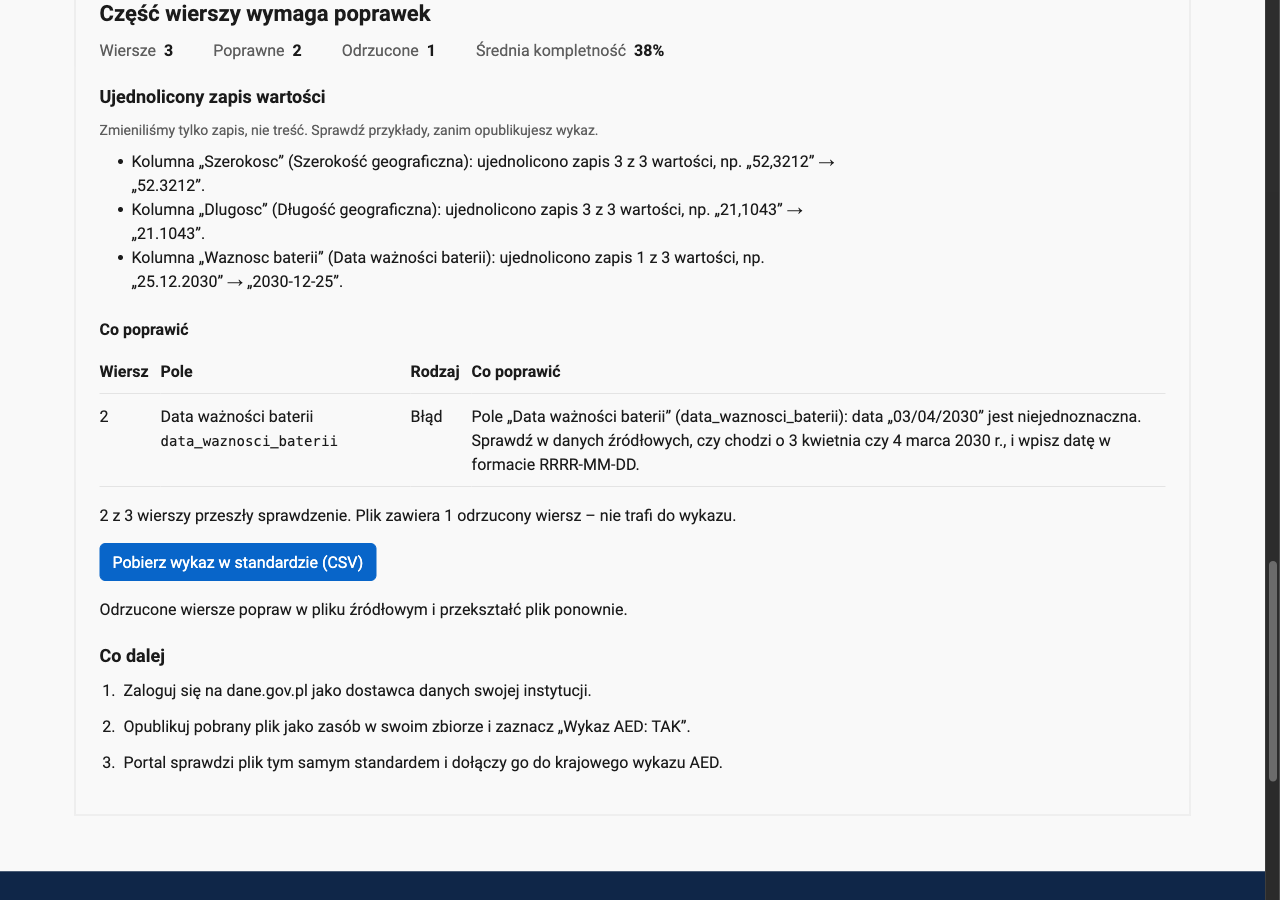
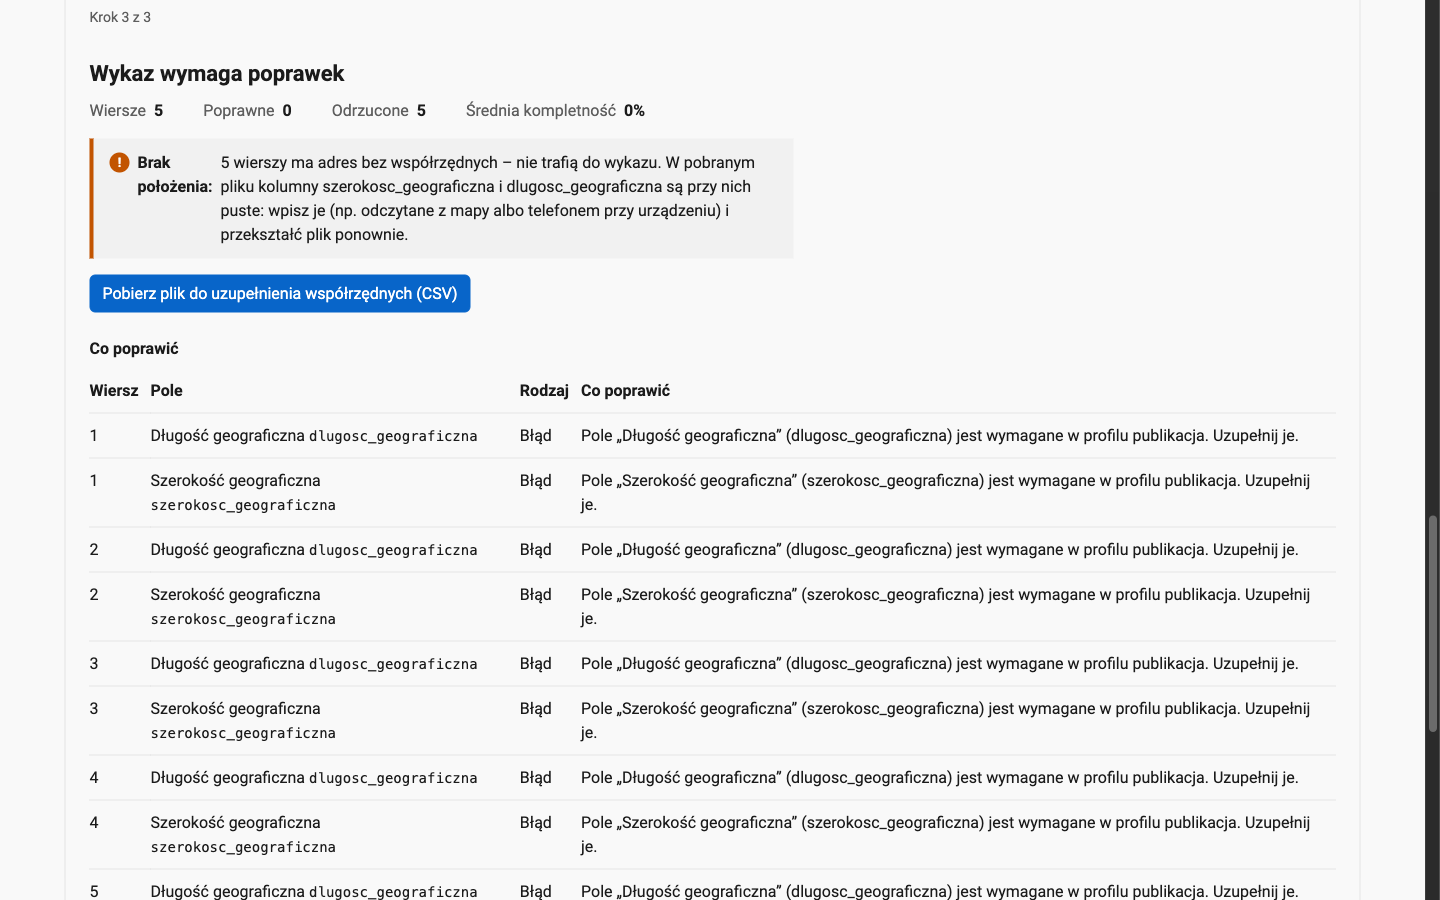
fix(ui): duplicate comparison readable on phones, clearer verdicts; converter download when no row has a position

diff --git a/frontend/src/app/pages/aed/aed-converter.component.html b/frontend/src/app/pages/aed/aed-converter.component.html
@@ -14,12 +14,12 @@
   <p class="aed-step">Krok 1 z 3</p>
   <h2 class="aed-h2" id="aed-conv-step1">Wgraj swój plik</h2>
   <div class="aed-field">
-    <label class="aed-field__label" for="aed-conv-plik">Plik z defibrylatorami – dowolny format z danymi</label>
+    <label class="aed-field__label" for="aed-conv-plik">Plik z defibrylatorami</label>
     <p class="aed-field__hint" id="aed-conv-plik-hint">
       Przyjmowane formaty: CSV, XLSX, ODS, JSON i GeoJSON (także z usług ArcGIS), KML i KMZ (np. Google Moje Mapy),
       GPX, GML, tabela na stronie HTML albo w dokumencie DOCX. Format rozpoznajemy po treści. Położenie może być w
       dwóch kolumnach, w jednej („52.2297, 21.0122”), w stopniach i minutach albo w układzie PUWG 1992 / 2000. Dowolny
-      układ kolumn, najwyżej 5 MB.
+      układ kolumn, najwyżej 5 MB. PDF oraz stare pliki XLS i DOC trzeba najpierw zapisać jako CSV albo XLSX.
     </p>
     <input
       class="form-control"
@@ -123,7 +123,7 @@
                 </select>
                 @if (column.powod) {
                   <p class="aed-field__hint" [id]="'aed-conv-why-' + i">
-                    Propozycja: {{ targetTitle(column.pole) }} ({{ column.powod }})
+                    Propozycja: {{ targetTitle(column.pole) }} – {{ column.powod }}
                   </p>
                 }
                 @if (repeated().includes(mapping()[column.kolumna])) {
@@ -216,8 +216,16 @@
         {{ result.raport.poza_wykazem_krajowym }}.
       </p>
     }
-    @if (result.raport.bez_wspolrzednych_komunikat) {
-      <p class="aed-message aed-message--warn"><strong>Brak położenia:</strong> {{ result.raport.bez_wspolrzednych_komunikat }}</p>
+    @if (noPosition()) {
+      <p class="aed-message aed-message--warn"><strong>Brak położenia:</strong> {{ noPosition() }}</p>
+      @if (!result.raport.poprawne) {
+        <!-- Nothing passed, but the file is still the way forward: it has the rows, only the positions are missing. -->
+        <p>
+          <a class="btn btn-primary" [href]="downloadHref()" [download]="result.nazwa_pliku"
+            >Pobierz plik do uzupełnienia współrzędnych (CSV)</a
+          >
+        </p>
+      }
     }
     @if (result.raport.ukryte_komunikat) {
       <p class="aed-message aed-message--warn"><strong>Uwaga:</strong> {{ result.raport.ukryte_komunikat }}</p>
@@ -294,7 +302,7 @@
         <li>Opublikuj pobrany plik jako zasób w swoim zbiorze i zaznacz „Wykaz AED: TAK”.</li>
         <li>Portal sprawdzi plik tym samym standardem i dołączy go do krajowego wykazu AED.</li>
       </ol>
-    } @else {
+    } @else if (!result.raport.bez_wspolrzednych) {
       <p class="aed-message">
         Żaden wiersz nie spełnia standardu. Sprawdź przypisanie kolumn (zwłaszcza współrzędnych i nazwy miejsca) albo
         uzupełnij wartości wspólne.

diff --git a/frontend/src/app/pages/aed/aed-ministry.component.ts b/frontend/src/app/pages/aed/aed-ministry.component.ts
@@ -62,15 +62,21 @@ export class AedMinistryComponent implements OnInit {
   protected readonly comparison = computed(() => {
     const pair = this.pair();
     if (!pair) return [];
-    return AED_FIELDS.map((field) => {
-      const a = aedLabel(field, pair.rekord_a[field.name]);
-      const b = aedLabel(field, pair.rekord_b[field.name]);
-      return { title: field.title, a, b, same: a === b };
-    }).filter((row) => row.a || row.b);
+    // The ids always differ and are already in the caption, so they are not a row.
+    return AED_FIELDS.filter((field) => field.name !== 'id_aed')
+      .map((field) => {
+        const a = aedLabel(field, pair.rekord_a[field.name]);
+        const b = aedLabel(field, pair.rekord_b[field.name]);
+        const verdict = a === b ? 'to samo' : !b ? 'tylko w A' : !a ? 'tylko w B' : 'różne wartości';
+        return { title: field.title, a, b, same: a === b, verdict };
+      })
+      .filter((row) => row.a || row.b);
   });
   /** By default only the fields in which the two records differ; the toggle shows every filled field. */
   protected readonly showAllFields = signal(false);
   protected readonly differing = computed(() => this.comparison().filter((row) => !row.same));
+  /** Fields filled in both records with different values: the real conflicts, unlike a value missing on one side. */
+  protected readonly conflicting = computed(() => this.differing().filter((row) => row.a && row.b).length);
   protected readonly shownRows = computed(() => (this.showAllFields() ? this.comparison() : this.differing()));
 
   protected readonly messages = signal<AedMessage[]>([]);

diff --git a/frontend/src/app/pages/aed/aed.scss b/frontend/src/app/pages/aed/aed.scss
@@ -1952,3 +1952,57 @@ html:has(.aed--app) {
     display: block;
   }
 }
+
+// Duplicate comparison on a narrow screen (tester round, 22.11): below 640 px the four-column table squeezed
+// values into one-letter lines. Each field becomes a block: its name, then A, B and the verdict, each labelled.
+@media (max-width: 640px) {
+  .aed .aed-compare,
+  .aed .aed-compare tbody,
+  .aed .aed-compare tr,
+  .aed .aed-compare th[scope='row'],
+  .aed .aed-compare td {
+    display: block;
+    width: 100%;
+  }
+
+  .aed .aed-compare thead {
+    position: absolute;
+    width: 1px;
+    height: 1px;
+    overflow: hidden;
+    clip: rect(0 0 0 0);
+  }
+
+  .aed .aed-compare caption,
+  .aed .aed-conv-map caption {
+    display: block;
+    text-align: left;
+    overflow-wrap: anywhere;
+  }
+
+  .aed .aed-compare tr {
+    padding: 0.5rem 0 0.5rem 0.75rem;
+    border-bottom: 1px solid var(--aed-line);
+    border-left: 4px solid transparent;
+  }
+
+  .aed .aed-compare tr.aed-compare__differs {
+    border-left-color: var(--aed-warn);
+  }
+
+  .aed .aed-compare th[scope='row'] {
+    padding: 0 0 0.25rem;
+    border-left: 0;
+  }
+
+  .aed .aed-compare td {
+    padding: 0.125rem 0;
+    border: 0;
+  }
+
+  .aed .aed-compare td::before {
+    content: attr(data-label) ': ';
+    font-weight: 400;
+    color: var(--aed-muted);
+  }
+}

diff --git a/frontend/src/app/pages/aed/aed-ministry.component.html b/frontend/src/app/pages/aed/aed-ministry.component.html
@@ -109,7 +109,8 @@
       <div class="aed-compare__toolbar">
         <p class="aed-compare__count">
           Pola z różnicą: <strong>{{ number(differing().length) }}</strong> z {{ number(comparison().length) }}
-          wypełnionych.
+          wypełnionych (różne wartości: {{ number(conflicting()) }}, wypełnione tylko w jednym rekordzie:
+          {{ number(differing().length - conflicting()) }}).
         </p>
         <button
           class="btn btn-outline-primary"
@@ -147,9 +148,9 @@
               @for (row of shownRows(); track row.title) {
                 <tr [class.aed-compare__differs]="!row.same">
                   <th scope="row">{{ row.title }}</th>
-                  <td>{{ row.a || 'brak' }}</td>
-                  <td>{{ row.b || 'brak' }}</td>
-                  <td>{{ row.same ? 'to samo' : 'różnica' }}</td>
+                  <td data-label="Rekord A">{{ row.a || 'brak' }}</td>
+                  <td data-label="Rekord B">{{ row.b || 'brak' }}</td>
+                  <td data-label="Zgodność">{{ row.verdict }}</td>
                 </tr>
               }
             </tbody>

diff --git a/frontend/src/app/pages/aed/aed-converter.component.ts b/frontend/src/app/pages/aed/aed-converter.component.ts
@@ -122,6 +122,18 @@ export class AedConverterComponent implements OnInit {
     return `${passed} Plik zawiera ${this.number(bad)} ${rejected} – ${bad === 1 ? 'nie trafi' : 'nie trafią'} do wykazu.`;
   });
 
+  /** Rows with an address but no position, said with Polish plural forms (the service's sentence has none). */
+  protected readonly noPosition = computed(() => {
+    const count = this.result()?.raport.bez_wspolrzednych ?? 0;
+    if (!count) return '';
+    const rows = aedPlural(count, 'wiersz ma', 'wiersze mają', 'wierszy ma');
+    return (
+      `${this.number(count)} ${rows} adres bez współrzędnych – ${count === 1 ? 'nie trafi' : 'nie trafią'} ` +
+      'do wykazu. W pobranym pliku kolumny szerokosc_geograficzna i dlugosc_geograficzna są przy nich puste: wpisz ' +
+      'je (np. odczytane z mapy albo telefonem przy urządzeniu) i przekształć plik ponownie.'
+    );
+  });
+
   ngOnInit(): void {
     this.seo.setPageTitle(['Konwerter do standardu AED', 'Rejestr AED']);
   }

diff --git a/frontend/src/app/pages/aed/aed-converter.component.spec.ts b/frontend/src/app/pages/aed/aed-converter.component.spec.ts
@@ -99,7 +99,7 @@ describe('AedConverterComponent', () => {
       },
     });
     fixture.detectChanges();
-    expect(page.textContent).toContain('1 wierszy ma adres bez współrzędnych');
+    expect(page.textContent).toContain('1 wiersz ma adres bez współrzędnych – nie trafi do wykazu');
     const link = page.querySelector<HTMLAnchorElement>('a[download]');
     expect(link.textContent).toContain('Pobierz wykaz w standardzie (CSV)');
     expect(link.getAttribute('download')).toBe('krosno-wykaz-aed.csv');
